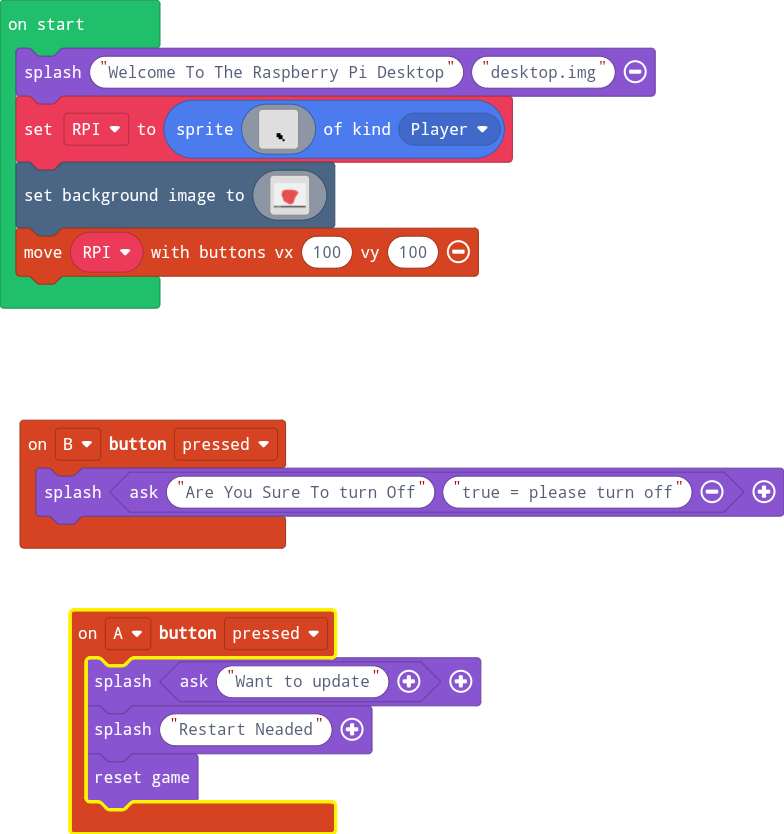
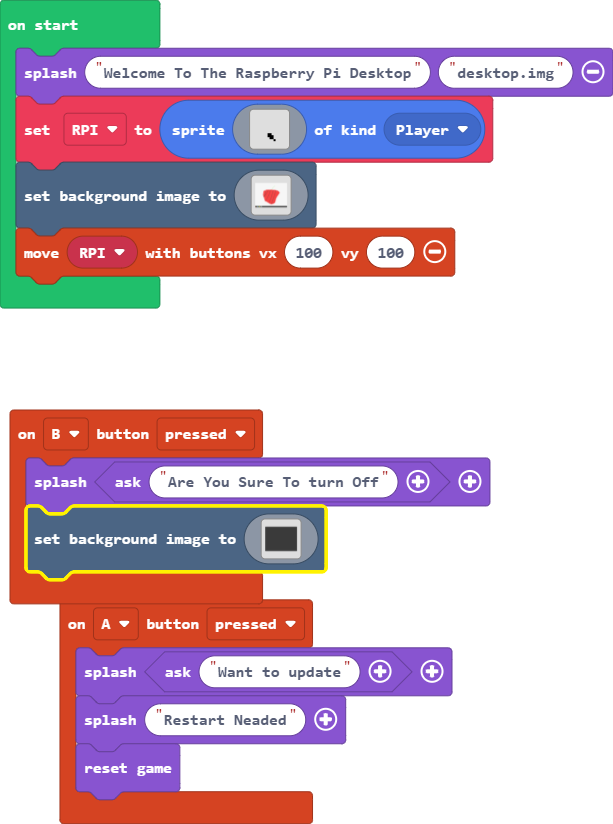
yes (i hope)

Changed region(s): [[0.0, 0.4854, 1.0, 1.0], [0.0, 0.0, 1.0, 0.3944]]

diff --git a/main.ts b/main.ts
@@ -1,5 +1,127 @@
 controller.B.onEvent(ControllerButtonEvent.Pressed, function () {
-    game.splash(game.ask("Are You Sure To turn Off", "true = please turn off"))
+    game.splash(game.ask("Are You Sure To turn Off"))
+    scene.setBackgroundImage(img`
+        ffffffffffffffffffffffffffffffffffffffffffffffffffffffffffffffffffffffffffffffffffffffffffffffffffffffffffffffffffffffffffffffffffffffffffffffffffffffffffffffff
+        ffffffffffffffffffffffffffffffffffffffffffffffffffffffffffffffffffffffffffffffffffffffffffffffffffffffffffffffffffffffffffffffffffffffffffffffffffffffffffffffff
+        ffffffffffffffffffffffffffffffffffffffffffffffffffffffffffffffffffffffffffffffffffffffffffffffffffffffffffffffffffffffffffffffffffffffffffffffffffffffffffffffff
+        ffffffffffffffffffffffffffffffffffffffffffffffffffffffffffffffffffffffffffffffffffffffffffffffffffffffffffffffffffffffffffffffffffffffffffffffffffffffffffffffff
+        ffffffffffffffffffffffffffffffffffffffffffffffffffffffffffffffffffffffffffffffffffffffffffffffffffffffffffffffffffffffffffffffffffffffffffffffffffffffffffffffff
+        ffffffffffffffffffffffffffffffffffffffffffffffffffffffffffffffffffffffffffffffffffffffffffffffffffffffffffffffffffffffffffffffffffffffffffffffffffffffffffffffff
+        ffffffffffffffffffffffffffffffffffffffffffffffffffffffffffffffffffffffffffffffffffffffffffffffffffffffffffffffffffffffffffffffffffffffffffffffffffffffffffffffff
+        ffffffffffffffffffffffffffffffffffffffffffffffffffffffffffffffffffffffffffffffffffffffffffffffffffffffffffffffffffffffffffffffffffffffffffffffffffffffffffffffff
+        ffffffffffffffffffffffffffffffffffffffffffffffffffffffffffffffffffffffffffffffffffffffffffffffffffffffffffffffffffffffffffffffffffffffffffffffffffffffffffffffff
+        ffffffffffffffffffffffffffffffffffffffffffffffffffffffffffffffffffffffffffffffffffffffffffffffffffffffffffffffffffffffffffffffffffffffffffffffffffffffffffffffff
+        ffffffffffffffffffffffffffffffffffffffffffffffffffffffffffffffffffffffffffffffffffffffffffffffffffffffffffffffffffffffffffffffffffffffffffffffffffffffffffffffff
+        ffffffffffffffffffffffffffffffffffffffffffffffffffffffffffffffffffffffffffffffffffffffffffffffffffffffffffffffffffffffffffffffffffffffffffffffffffffffffffffffff
+        ffffffffffffffffffffffffffffffffffffffffffffffffffffffffffffffffffffffffffffffffffffffffffffffffffffffffffffffffffffffffffffffffffffffffffffffffffffffffffffffff
+        ffffffffffffffffffffffffffffffffffffffffffffffffffffffffffffffffffffffffffffffffffffffffffffffffffffffffffffffffffffffffffffffffffffffffffffffffffffffffffffffff
+        ffffffffffffffffffffffffffffffffffffffffffffffffffffffffffffffffffffffffffffffffffffffffffffffffffffffffffffffffffffffffffffffffffffffffffffffffffffffffffffffff
+        ffffffffffffffffffffffffffffffffffffffffffffffffffffffffffffffffffffffffffffffffffffffffffffffffffffffffffffffffffffffffffffffffffffffffffffffffffffffffffffffff
+        ffffffffffffffffffffffffffffffffffffffffffffffffffffffffffffffffffffffffffffffffffffffffffffffffffffffffffffffffffffffffffffffffffffffffffffffffffffffffffffffff
+        ffffffffffffffffffffffffffffffffffffffffffffffffffffffffffffffffffffffffffffffffffffffffffffffffffffffffffffffffffffffffffffffffffffffffffffffffffffffffffffffff
+        ffffffffffffffffffffffffffffffffffffffffffffffffffffffffffffffffffffffffffffffffffffffffffffffffffffffffffffffffffffffffffffffffffffffffffffffffffffffffffffffff
+        ffffffffffffffffffffffffffffffffffffffffffffffffffffffffffffffffffffffffffffffffffffffffffffffffffffffffffffffffffffffffffffffffffffffffffffffffffffffffffffffff
+        ffffffffffffffffffffffffffffffffffffffffffffffffffffffffffffffffffffffffffffffffffffffffffffffffffffffffffffffffffffffffffffffffffffffffffffffffffffffffffffffff
+        ffffffffffffffffffffffffffffffffffffffffffffffffffffffffffffffffffffffffffffffffffffffffffffffffffffffffffffffffffffffffffffffffffffffffffffffffffffffffffffffff
+        ffffffffffffffffffffffffffffffffffffffffffffffffffffffffffffffffffffffffffffffffffffffffffffffffffffffffffffffffffffffffffffffffffffffffffffffffffffffffffffffff
+        ffffffffffffffffffffffffffffffffffffffffffffffffffffffffffffffffffffffffffffffffffffffffffffffffffffffffffffffffffffffffffffffffffffffffffffffffffffffffffffffff
+        ffffffffffffffffffffffffffffffffffffffffffffffffffffffffffffffffffffffffffffffffffffffffffffffffffffffffffffffffffffffffffffffffffffffffffffffffffffffffffffffff
+        ffffffffffffffffffffffffffffffffffffffffffffffffffffffffffffffffffffffffffffffffffffffffffffffffffffffffffffffffffffffffffffffffffffffffffffffffffffffffffffffff
+        ffffffffffffffffffffffffffffffffffffffffffffffffffffffffffffffffffffffffffffffffffffffffffffffffffffffffffffffffffffffffffffffffffffffffffffffffffffffffffffffff
+        ffffffffffffffffffffffffffffffffffffffffffffffffffffffffffffffffffffffffffffffffffffffffffffffffffffffffffffffffffffffffffffffffffffffffffffffffffffffffffffffff
+        ffffffffffffffffffffffffffffffffffffffffffffffffffffffffffffffffffffffffffffffffffffffffffffffffffffffffffffffffffffffffffffffffffffffffffffffffffffffffffffffff
+        ffffffffffffffffffffffffffffffffffffffffffffffffffffffffffffffffffffffffffffffffffffffffffffffffffffffffffffffffffffffffffffffffffffffffffffffffffffffffffffffff
+        ffffffffffffffffffffffffffffffffffffffffffffffffffffffffffffffffffffffffffffffffffffffffffffffffffffffffffffffffffffffffffffffffffffffffffffffffffffffffffffffff
+        ffffffffffffffffffffffffffffffffffffffffffffffffffffffffffffffffffffffffffffffffffffffffffffffffffffffffffffffffffffffffffffffffffffffffffffffffffffffffffffffff
+        ffffffffffffffffffffffffffffffffffffffffffffffffffffffffffffffffffffffffffffffffffffffffffffffffffffffffffffffffffffffffffffffffffffffffffffffffffffffffffffffff
+        ffffffffffffffffffffffffffffffffffffffffffffffffffffffffffffffffffffffffffffffffffffffffffffffffffffffffffffffffffffffffffffffffffffffffffffffffffffffffffffffff
+        ffffffffffffffffffffffffffffffffffffffffffffffffffffffffffffffffffffffffffffffffffffffffffffffffffffffffffffffffffffffffffffffffffffffffffffffffffffffffffffffff
+        ffffffffffffffffffffffffffffffffffffffffffffffffffffffffffffffffffffffffffffffffffffffffffffffffffffffffffffffffffffffffffffffffffffffffffffffffffffffffffffffff
+        ffffffffffffffffffffffffffffffffffffffffffffffffffffffffffffffffffffffffffffffffffffffffffffffffffffffffffffffffffffffffffffffffffffffffffffffffffffffffffffffff
+        ffffffffffffffffffffffffffffffffffffffffffffffffffffffffffffffffffffffffffffffffffffffffffffffffffffffffffffffffffffffffffffffffffffffffffffffffffffffffffffffff
+        ffffffffffffffffffffffffffffffffffffffffffffffffffffffffffffffffffffffffffffffffffffffffffffffffffffffffffffffffffffffffffffffffffffffffffffffffffffffffffffffff
+        ffffffffffffffffffffffffffffffffffffffffffffffffffffffffffffffffffffffffffffffffffffffffffffffffffffffffffffffffffffffffffffffffffffffffffffffffffffffffffffffff
+        ffffffffffffffffffffffffffffffffffffffffffffffffffffffffffffffffffffffffffffffffffffffffffffffffffffffffffffffffffffffffffffffffffffffffffffffffffffffffffffffff
+        ffffffffffffffffffffffffffffffffffffffffffffffffffffffffffffffffffffffffffffffffffffffffffffffffffffffffffffffffffffffffffffffffffffffffffffffffffffffffffffffff
+        ffffffffffffffffffffffffffffffffffffffffffffffffffffffffffffffffffffffffffffffffffffffffffffffffffffffffffffffffffffffffffffffffffffffffffffffffffffffffffffffff
+        ffffffffffffffffffffffffffffffffffffffffffffffffffffffffffffffffffffffffffffffffffffffffffffffffffffffffffffffffffffffffffffffffffffffffffffffffffffffffffffffff
+        ffffffffffffffffffffffffffffffffffffffffffffffffffffffffffffffffffffffffffffffffffffffffffffffffffffffffffffffffffffffffffffffffffffffffffffffffffffffffffffffff
+        ffffffffffffffffffffffffffffffffffffffffffffffffffffffffffffffffffffffffffffffffffffffffffffffffffffffffffffffffffffffffffffffffffffffffffffffffffffffffffffffff
+        ffffffffffffffffffffffffffffffffffffffffffffffffffffffffffffffffffffffffffffffffffffffffffffffffffffffffffffffffffffffffffffffffffffffffffffffffffffffffffffffff
+        ffffffffffffffffffffffffffffffffffffffffffffffffffffffffffffffffffffffffffffffffffffffffffffffffffffffffffffffffffffffffffffffffffffffffffffffffffffffffffffffff
+        ffffffffffffffffffffffffffffffffffffffffffffffffffffffffffffffffffffffffffffffffffffffffffffffffffffffffffffffffffffffffffffffffffffffffffffffffffffffffffffffff
+        ffffffffffffffffffffffffffffffffffffffffffffffffffffffffffffffffffffffffffffffffffffffffffffffffffffffffffffffffffffffffffffffffffffffffffffffffffffffffffffffff
+        ffffffffffffffffffffffffffffffffffffffffffffffffffffffffffffffffffffffffffffffffffffffffffffffffffffffffffffffffffffffffffffffffffffffffffffffffffffffffffffffff
+        ffffffffffffffffffffffffffffffffffffffffffffffffffffffffffffffffffffffffffffffffffffffffffffffffffffffffffffffffffffffffffffffffffffffffffffffffffffffffffffffff
+        ffffffffffffffffffffffffffffffffffffffffffffffffffffffffffffffffffffffffffffffffffffffffffffffffffffffffffffffffffffffffffffffffffffffffffffffffffffffffffffffff
+        ffffffffffffffffffffffffffffffffffffffffffffffffffffffffffffffffffffffffffffffffffffffffffffffffffffffffffffffffffffffffffffffffffffffffffffffffffffffffffffffff
+        ffffffffffffffffffffffffffffffffffffffffffffffffffffffffffffffffffffffffffffffffffffffffffffffffffffffffffffffffffffffffffffffffffffffffffffffffffffffffffffffff
+        ffffffffffffffffffffffffffffffffffffffffffffffffffffffffffffffffffffffffffffffffffffffffffffffffffffffffffffffffffffffffffffffffffffffffffffffffffffffffffffffff
+        ffffffffffffffffffffffffffffffffffffffffffffffffffffffffffffffffffffffffffffffffffffffffffffffffffffffffffffffffffffffffffffffffffffffffffffffffffffffffffffffff
+        ffffffffffffffffffffffffffffffffffffffffffffffffffffffffffffffffffffffffffffffffffffffffffffffffffffffffffffffffffffffffffffffffffffffffffffffffffffffffffffffff
+        ffffffffffffffffffffffffffffffffffffffffffffffffffffffffffffffffffffffffffffffffffffffffffffffffffffffffffffffffffffffffffffffffffffffffffffffffffffffffffffffff
+        ffffffffffffffffffffffffffffffffffffffffffffffffffffffffffffffffffffffffffffffffffffffffffffffffffffffffffffffffffffffffffffffffffffffffffffffffffffffffffffffff
+        ffffffffffffffffffffffffffffffffffffffffffffffffffffffffffffffffffffffffffffffffffffffffffffffffffffffffffffffffffffffffffffffffffffffffffffffffffffffffffffffff
+        ffffffffffffffffffffffffffffffffffffffffffffffffffffffffffffffffffffffffffffffffffffffffffffffffffffffffffffffffffffffffffffffffffffffffffffffffffffffffffffffff
+        ffffffffffffffffffffffffffffffffffffffffffffffffffffffffffffffffffffffffffffffffffffffffffffffffffffffffffffffffffffffffffffffffffffffffffffffffffffffffffffffff
+        ffffffffffffffffffffffffffffffffffffffffffffffffffffffffffffffffffffffffffffffffffffffffffffffffffffffffffffffffffffffffffffffffffffffffffffffffffffffffffffffff
+        ffffffffffffffffffffffffffffffffffffffffffffffffffffffffffffffffffffffffffffffffffffffffffffffffffffffffffffffffffffffffffffffffffffffffffffffffffffffffffffffff
+        ffffffffffffffffffffffffffffffffffffffffffffffffffffffffffffffffffffffffffffffffffffffffffffffffffffffffffffffffffffffffffffffffffffffffffffffffffffffffffffffff
+        ffffffffffffffffffffffffffffffffffffffffffffffffffffffffffffffffffffffffffffffffffffffffffffffffffffffffffffffffffffffffffffffffffffffffffffffffffffffffffffffff
+        ffffffffffffffffffffffffffffffffffffffffffffffffffffffffffffffffffffffffffffffffffffffffffffffffffffffffffffffffffffffffffffffffffffffffffffffffffffffffffffffff
+        ffffffffffffffffffffffffffffffffffffffffffffffffffffffffffffffffffffffffffffffffffffffffffffffffffffffffffffffffffffffffffffffffffffffffffffffffffffffffffffffff
+        ffffffffffffffffffffffffffffffffffffffffffffffffffffffffffffffffffffffffffffffffffffffffffffffffffffffffffffffffffffffffffffffffffffffffffffffffffffffffffffffff
+        ffffffffffffffffffffffffffffffffffffffffffffffffffffffffffffffffffffffffffffffffffffffffffffffffffffffffffffffffffffffffffffffffffffffffffffffffffffffffffffffff
+        ffffffffffffffffffffffffffffffffffffffffffffffffffffffffffffffffffffffffffffffffffffffffffffffffffffffffffffffffffffffffffffffffffffffffffffffffffffffffffffffff
+        ffffffffffffffffffffffffffffffffffffffffffffffffffffffffffffffffffffffffffffffffffffffffffffffffffffffffffffffffffffffffffffffffffffffffffffffffffffffffffffffff
+        ffffffffffffffffffffffffffffffffffffffffffffffffffffffffffffffffffffffffffffffffffffffffffffffffffffffffffffffffffffffffffffffffffffffffffffffffffffffffffffffff
+        ffffffffffffffffffffffffffffffffffffffffffffffffffffffffffffffffffffffffffffffffffffffffffffffffffffffffffffffffffffffffffffffffffffffffffffffffffffffffffffffff
+        ffffffffffffffffffffffffffffffffffffffffffffffffffffffffffffffffffffffffffffffffffffffffffffffffffffffffffffffffffffffffffffffffffffffffffffffffffffffffffffffff
+        ffffffffffffffffffffffffffffffffffffffffffffffffffffffffffffffffffffffffffffffffffffffffffffffffffffffffffffffffffffffffffffffffffffffffffffffffffffffffffffffff
+        ffffffffffffffffffffffffffffffffffffffffffffffffffffffffffffffffffffffffffffffffffffffffffffffffffffffffffffffffffffffffffffffffffffffffffffffffffffffffffffffff
+        ffffffffffffffffffffffffffffffffffffffffffffffffffffffffffffffffffffffffffffffffffffffffffffffffffffffffffffffffffffffffffffffffffffffffffffffffffffffffffffffff
+        ffffffffffffffffffffffffffffffffffffffffffffffffffffffffffffffffffffffffffffffffffffffffffffffffffffffffffffffffffffffffffffffffffffffffffffffffffffffffffffffff
+        ffffffffffffffffffffffffffffffffffffffffffffffffffffffffffffffffffffffffffffffffffffffffffffffffffffffffffffffffffffffffffffffffffffffffffffffffffffffffffffffff
+        ffffffffffffffffffffffffffffffffffffffffffffffffffffffffffffffffffffffffffffffffffffffffffffffffffffffffffffffffffffffffffffffffffffffffffffffffffffffffffffffff
+        ffffffffffffffffffffffffffffffffffffffffffffffffffffffffffffffffffffffffffffffffffffffffffffffffffffffffffffffffffffffffffffffffffffffffffffffffffffffffffffffff
+        ffffffffffffffffffffffffffffffffffffffffffffffffffffffffffffffffffffffffffffffffffffffffffffffffffffffffffffffffffffffffffffffffffffffffffffffffffffffffffffffff
+        ffffffffffffffffffffffffffffffffffffffffffffffffffffffffffffffffffffffffffffffffffffffffffffffffffffffffffffffffffffffffffffffffffffffffffffffffffffffffffffffff
+        ffffffffffffffffffffffffffffffffffffffffffffffffffffffffffffffffffffffffffffffffffffffffffffffffffffffffffffffffffffffffffffffffffffffffffffffffffffffffffffffff
+        ffffffffffffffffffffffffffffffffffffffffffffffffffffffffffffffffffffffffffffffffffffffffffffffffffffffffffffffffffffffffffffffffffffffffffffffffffffffffffffffff
+        ffffffffffffffffffffffffffffffffffffffffffffffffffffffffffffffffffffffffffffffffffffffffffffffffffffffffffffffffffffffffffffffffffffffffffffffffffffffffffffffff
+        ffffffffffffffffffffffffffffffffffffffffffffffffffffffffffffffffffffffffffffffffffffffffffffffffffffffffffffffffffffffffffffffffffffffffffffffffffffffffffffffff
+        ffffffffffffffffffffffffffffffffffffffffffffffffffffffffffffffffffffffffffffffffffffffffffffffffffffffffffffffffffffffffffffffffffffffffffffffffffffffffffffffff
+        ffffffffffffffffffffffffffffffffffffffffffffffffffffffffffffffffffffffffffffffffffffffffffffffffffffffffffffffffffffffffffffffffffffffffffffffffffffffffffffffff
+        ffffffffffffffffffffffffffffffffffffffffffffffffffffffffffffffffffffffffffffffffffffffffffffffffffffffffffffffffffffffffffffffffffffffffffffffffffffffffffffffff
+        ffffffffffffffffffffffffffffffffffffffffffffffffffffffffffffffffffffffffffffffffffffffffffffffffffffffffffffffffffffffffffffffffffffffffffffffffffffffffffffffff
+        ffffffffffffffffffffffffffffffffffffffffffffffffffffffffffffffffffffffffffffffffffffffffffffffffffffffffffffffffffffffffffffffffffffffffffffffffffffffffffffffff
+        ffffffffffffffffffffffffffffffffffffffffffffffffffffffffffffffffffffffffffffffffffffffffffffffffffffffffffffffffffffffffffffffffffffffffffffffffffffffffffffffff
+        ffffffffffffffffffffffffffffffffffffffffffffffffffffffffffffffffffffffffffffffffffffffffffffffffffffffffffffffffffffffffffffffffffffffffffffffffffffffffffffffff
+        ffffffffffffffffffffffffffffffffffffffffffffffffffffffffffffffffffffffffffffffffffffffffffffffffffffffffffffffffffffffffffffffffffffffffffffffffffffffffffffffff
+        ffffffffffffffffffffffffffffffffffffffffffffffffffffffffffffffffffffffffffffffffffffffffffffffffffffffffffffffffffffffffffffffffffffffffffffffffffffffffffffffff
+        ffffffffffffffffffffffffffffffffffffffffffffffffffffffffffffffffffffffffffffffffffffffffffffffffffffffffffffffffffffffffffffffffffffffffffffffffffffffffffffffff
+        ffffffffffffffffffffffffffffffffffffffffffffffffffffffffffffffffffffffffffffffffffffffffffffffffffffffffffffffffffffffffffffffffffffffffffffffffffffffffffffffff
+        ffffffffffffffffffffffffffffffffffffffffffffffffffffffffffffffffffffffffffffffffffffffffffffffffffffffffffffffffffffffffffffffffffffffffffffffffffffffffffffffff
+        ffffffffffffffffffffffffffffffffffffffffffffffffffffffffffffffffffffffffffffffffffffffffffffffffffffffffffffffffffffffffffffffffffffffffffffffffffffffffffffffff
+        ffffffffffffffffffffffffffffffffffffffffffffffffffffffffffffffffffffffffffffffffffffffffffffffffffffffffffffffffffffffffffffffffffffffffffffffffffffffffffffffff
+        ffffffffffffffffffffffffffffffffffffffffffffffffffffffffffffffffffffffffffffffffffffffffffffffffffffffffffffffffffffffffffffffffffffffffffffffffffffffffffffffff
+        ffffffffffffffffffffffffffffffffffffffffffffffffffffffffffffffffffffffffffffffffffffffffffffffffffffffffffffffffffffffffffffffffffffffffffffffffffffffffffffffff
+        ffffffffffffffffffffffffffffffffffffffffffffffffffffffffffffffffffffffffffffffffffffffffffffffffffffffffffffffffffffffffffffffffffffffffffffffffffffffffffffffff
+        ffffffffffffffffffffffffffffffffffffffffffffffffffffffffffffffffffffffffffffffffffffffffffffffffffffffffffffffffffffffffffffffffffffffffffffffffffffffffffffffff
+        ffffffffffffffffffffffffffffffffffffffffffffffffffffffffffffffffffffffffffffffffffffffffffffffffffffffffffffffffffffffffffffffffffffffffffffffffffffffffffffffff
+        ffffffffffffffffffffffffffffffffffffffffffffffffffffffffffffffffffffffffffffffffffffffffffffffffffffffffffffffffffffffffffffffffffffffffffffffffffffffffffffffff
+        ffffffffffffffffffffffffffffffffffffffffffffffffffffffffffffffffffffffffffffffffffffffffffffffffffffffffffffffffffffffffffffffffffffffffffffffffffffffffffffffff
+        ffffffffffffffffffffffffffffffffffffffffffffffffffffffffffffffffffffffffffffffffffffffffffffffffffffffffffffffffffffffffffffffffffffffffffffffffffffffffffffffff
+        ffffffffffffffffffffffffffffffffffffffffffffffffffffffffffffffffffffffffffffffffffffffffffffffffffffffffffffffffffffffffffffffffffffffffffffffffffffffffffffffff
+        ffffffffffffffffffffffffffffffffffffffffffffffffffffffffffffffffffffffffffffffffffffffffffffffffffffffffffffffffffffffffffffffffffffffffffffffffffffffffffffffff
+        ffffffffffffffffffffffffffffffffffffffffffffffffffffffffffffffffffffffffffffffffffffffffffffffffffffffffffffffffffffffffffffffffffffffffffffffffffffffffffffffff
+        ffffffffffffffffffffffffffffffffffffffffffffffffffffffffffffffffffffffffffffffffffffffffffffffffffffffffffffffffffffffffffffffffffffffffffffffffffffffffffffffff
+        ffffffffffffffffffffffffffffffffffffffffffffffffffffffffffffffffffffffffffffffffffffffffffffffffffffffffffffffffffffffffffffffffffffffffffffffffffffffffffffffff
+        ffffffffffffffffffffffffffffffffffffffffffffffffffffffffffffffffffffffffffffffffffffffffffffffffffffffffffffffffffffffffffffffffffffffffffffffffffffffffffffffff
+        ffffffffffffffffffffffffffffffffffffffffffffffffffffffffffffffffffffffffffffffffffffffffffffffffffffffffffffffffffffffffffffffffffffffffffffffffffffffffffffffff
+        ffffffffffffffffffffffffffffffffffffffffffffffffffffffffffffffffffffffffffffffffffffffffffffffffffffffffffffffffffffffffffffffffffffffffffffffffffffffffffffffff
+        ffffffffffffffffffffffffffffffffffffffffffffffffffffffffffffffffffffffffffffffffffffffffffffffffffffffffffffffffffffffffffffffffffffffffffffffffffffffffffffffff
+        `)
 })
 controller.A.onEvent(ControllerButtonEvent.Pressed, function () {
     game.splash(game.ask("Want to update"))
